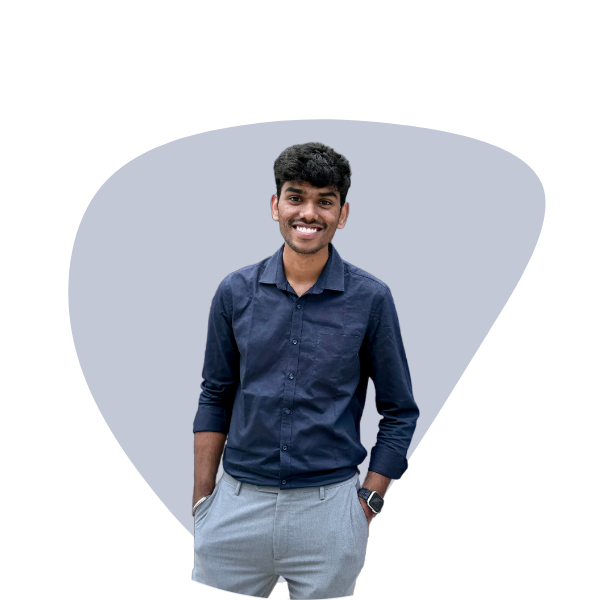
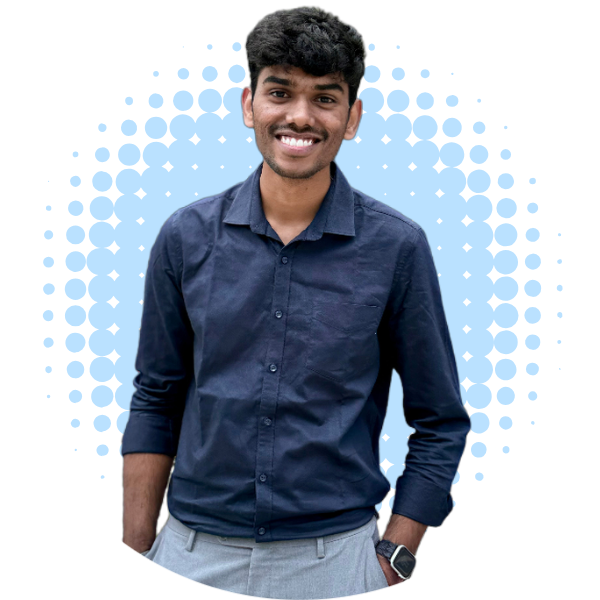
Changes in assets

diff --git a/index.html b/index.html
@@ -38,7 +38,7 @@
     </nav>
     <section id="profile">
       <div class="section__pic-container">
-        <img src="./assets/profile-pic.png" alt="John Doe profile picture" />
+        <img src="./assets/profile-pic1.png" alt="John Doe profile picture" />
       </div>
       <div class="section__text">
         <p class="section__text__p1">Hello, I'm</p>
